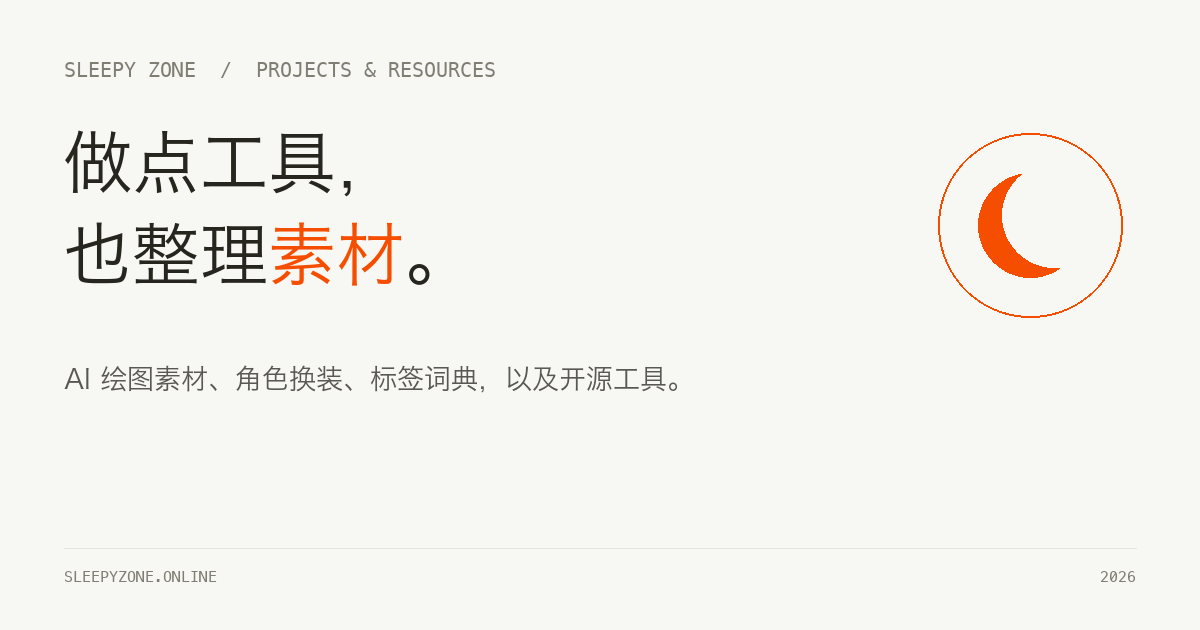
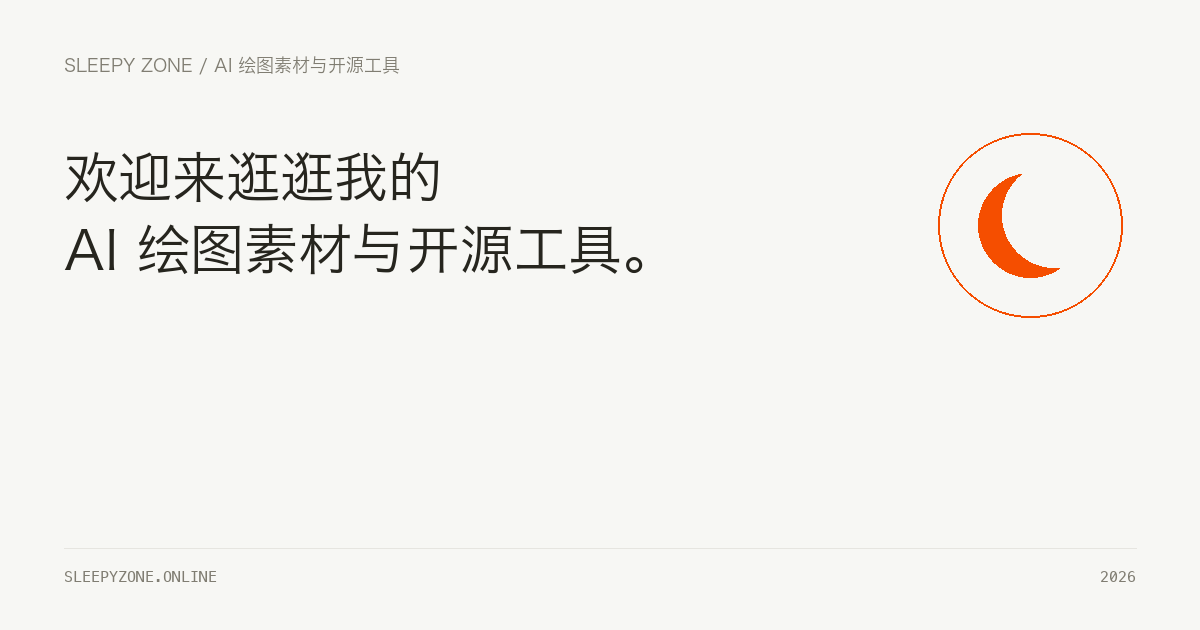
feat: localize OG images per language

Changed region(s): [[0.0308, 0.2111, 0.5242, 0.4524], [0.0617, 0.573, 0.555, 0.6333], [0.0308, 0.0905, 0.4317, 0.1206]]

diff --git a/README.md b/README.md
@@ -158,7 +158,7 @@ git push
 - 页面标题、描述、canonical、OG/Twitter 卡片统一在 `src/layouts/BaseLayout.astro`。
 - 结构化数据在 `src/lib/seo.ts`：Person / Organization / WebSite / WebPage；首页和项目页是 ItemList，项目详情是 WebApplication，工具详情是 SoftwareApplication，文章是 BlogPosting + BreadcrumbList。
 - 新增项目会自动生成 `/projects/<slug>/` 并进入 ItemList；新增工具会自动生成 `/tools/<id>/`；归档文章自动进入 BlogPosting。
-- 社交卡片：`public/og.png`（1200×630）；品牌 logo：`public/logo-512.png`。
+- 社交卡片：`public/og.png`（中文）、`og-en.png`、`og-ja.png`（1200×630）；品牌 logo：`public/logo-512.png`。
 - `sitemap-index.xml` 和 `robots.txt` 已配置；sitemap 包含中文、英文、日文的首页/项目/工具及详情页（共 39 条），归档博客保留可访问但不提交 sitemap。
 - 上线后到 Google Search Console / Bing Webmaster 提交 `https://sleepyzone.online/sitemap-index.xml`。
 - 19 个归档旧 URL 里的 `.md` 已去掉，旧地址会重定向到干净 URL；不要在新文章里使用带 `.md` 的 slug。
